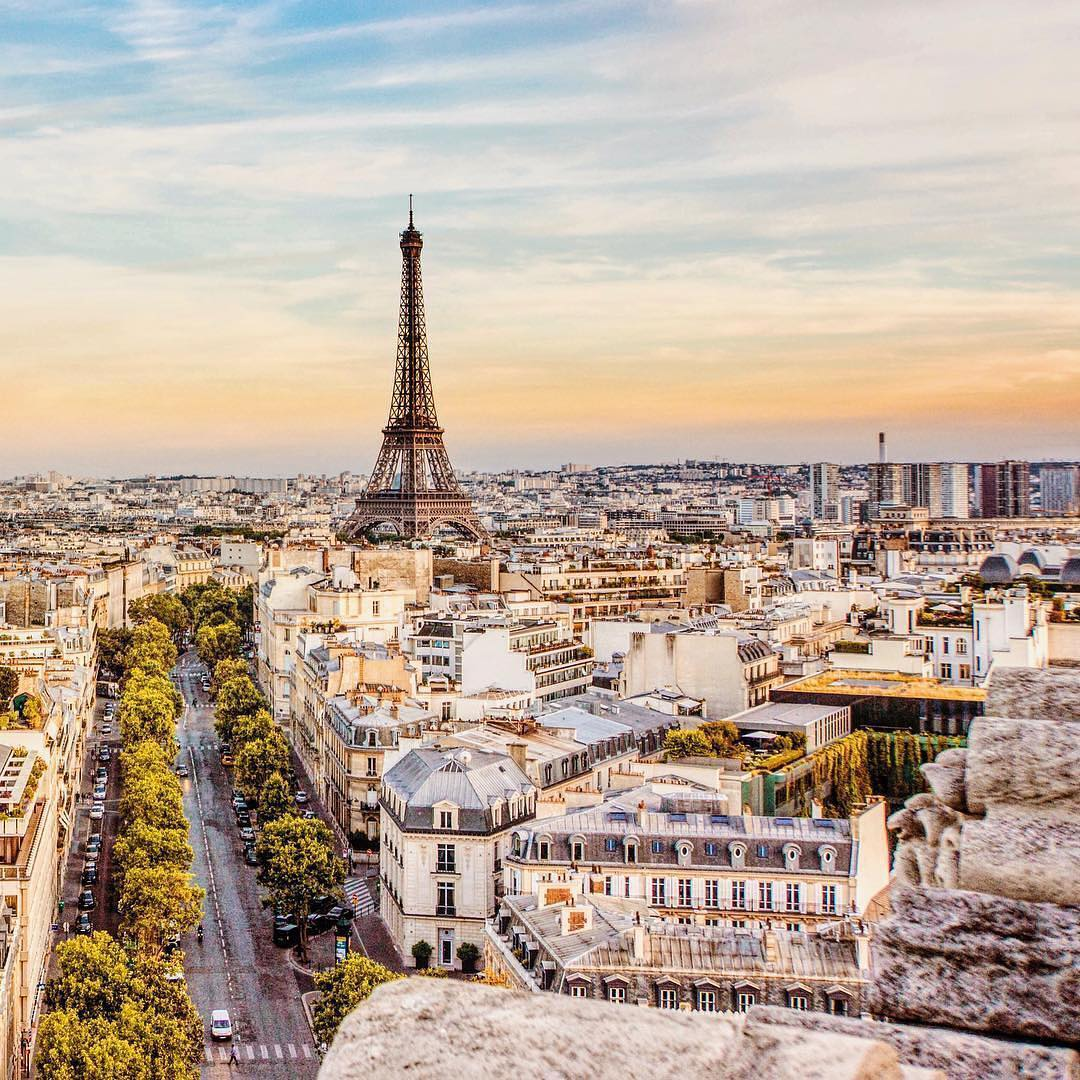
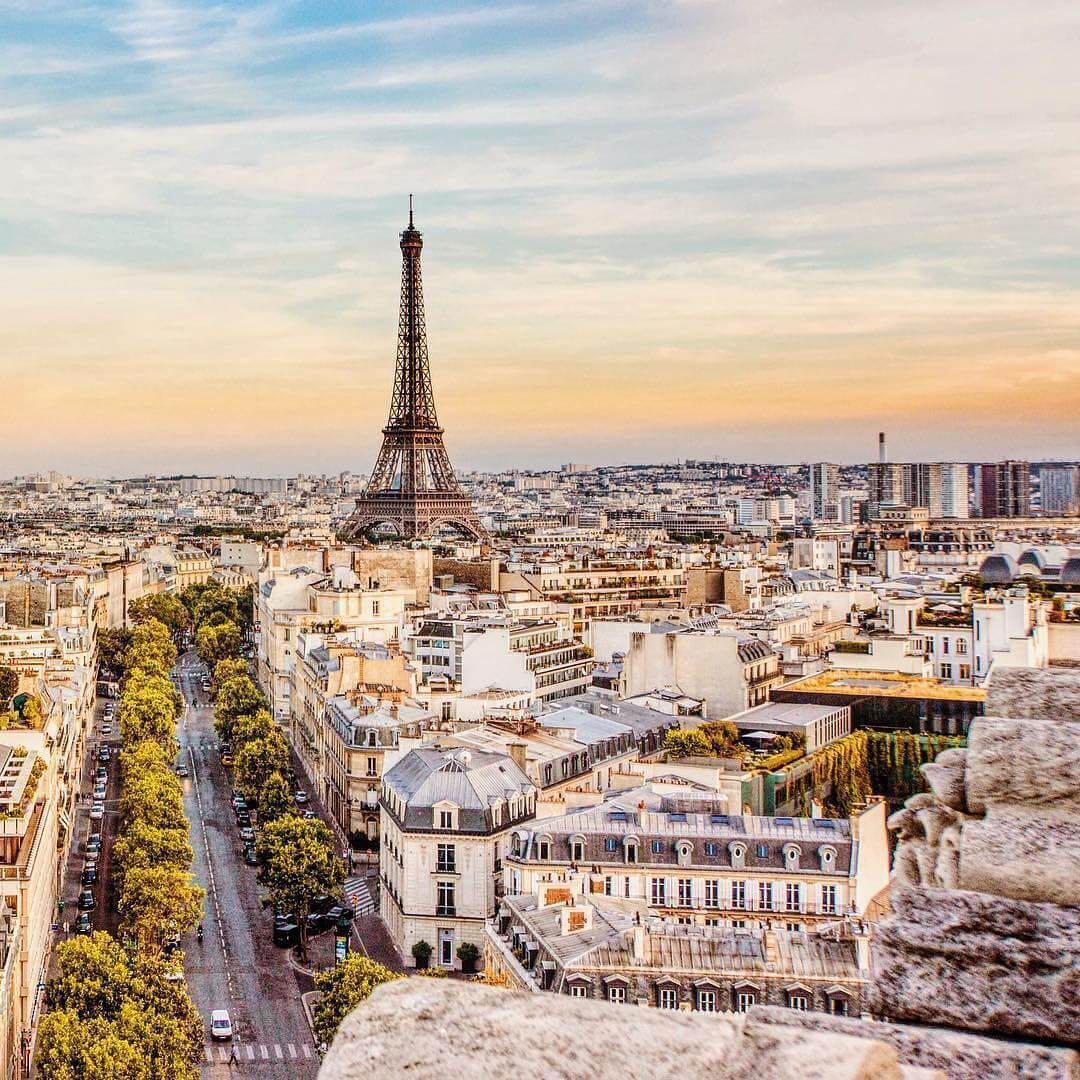
fix: синтаксические ошибки и оптимизация изображений

diff --git a/blocks/header/__logo/header__logo.css b/blocks/header/__logo/header__logo.css
@@ -1,8 +1,7 @@
-
-
 @media screen and (max-width: 767px) {
   .header__logo {
     margin-left: 28px;
     width: 104px;
     height: 25px;
   }
+}

diff --git a/blocks/card/__img/card__img.css b/blocks/card/__img/card__img.css
@@ -1,6 +1,6 @@
 .card__img {
   width: 100%;
-  height: 282PX;
+  height: 282px;
   border-radius: 10px 10px 0 0;
   object-fit: cover;
 }

diff --git a/blocks/profle/__name/profile__name.css b/blocks/profle/__name/profile__name.css
@@ -13,3 +13,4 @@
     text-align: center;
     margin: 0 10px 0 0;
   }
+}

diff --git a/blocks/profle/__avatar/profile__avatar.css b/blocks/profle/__avatar/profile__avatar.css
@@ -2,3 +2,4 @@
   .profile__avatar {
     margin-bottom: 26px;
   }
+}

diff --git a/README.md b/README.md
@@ -1,17 +1,15 @@
 # Проект 4: Место
 
-### Обзор
+### Используемые технологии
 
-* Figma
-* Картинки
+* Flex
+* Grid
 
-**Figma**
+* JavaScript
+
+**Сыылка на git pages**
 
 * [Ссылка на макет в Figma](https://www.figma.com/file/2cn9N9jSkmxD84oJik7xL7/JavaScript.-Sprint-4?node-id=0%3A1)
 
 **Картинки**
 
-Доставать картинки предстоит из Фигмы. Это расхожая практика, поэтому полезно потренироваться.
-Не забудьте [оптимизировать картинки](https://tinypng.com/), чтобы ваш сайт загружался быстрее.
-
-Удачи!
